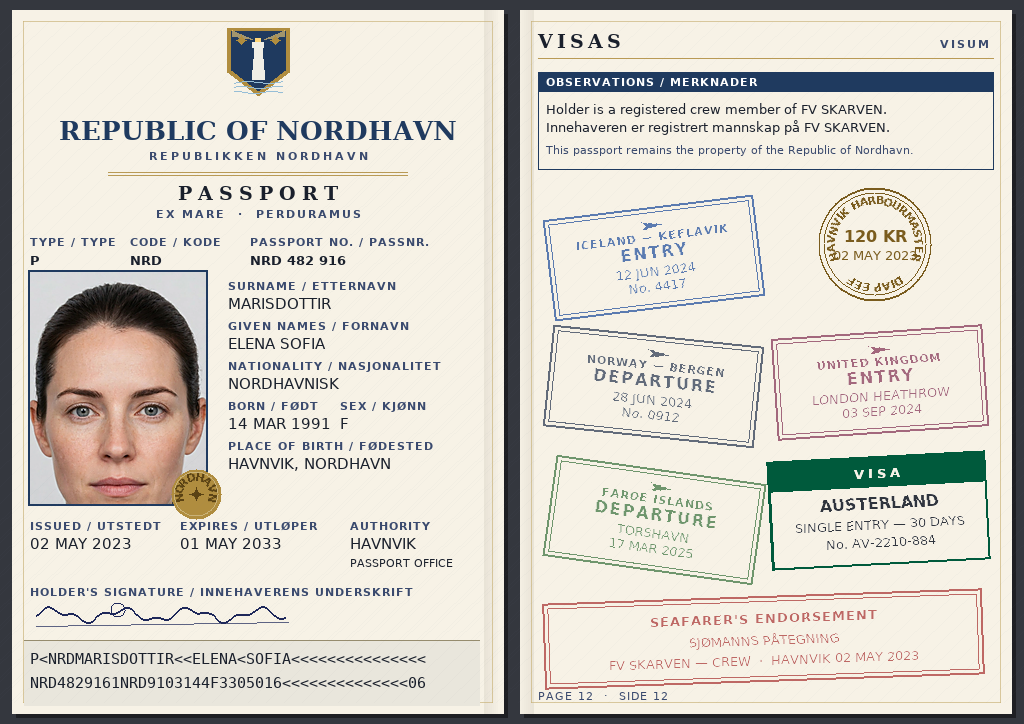
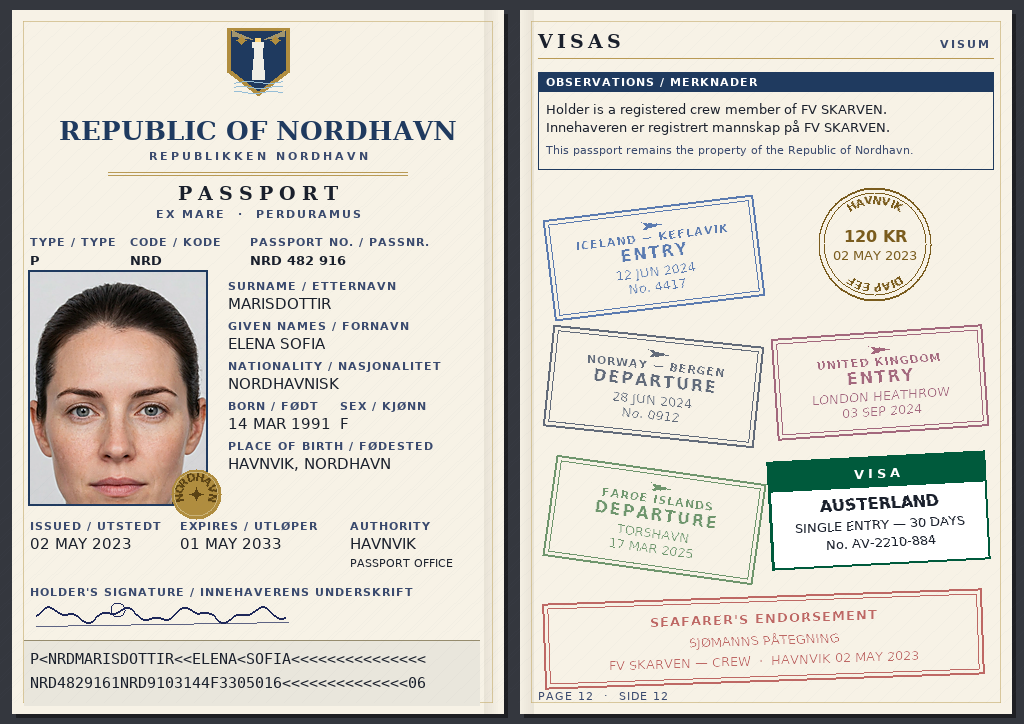
Fix fee-stamp arc collision and ghost VISA text; SPDX header; tidy repo
- Fee stamp: top arc 'HAVNVIK HARBOURMASTER' spanned 252 deg and struck
  through '02 MAY 2023'; shortened to 'HAVNVIK' (83 deg)
- Visa sticker: white VISA text was lost by the dark-only stamp blit
  (only edge pixels survived); paste the solid sticker opaquely instead
- MRZ check digits independently re-verified valid (all 5 match); no change
- LICENSE already carries SPDX-License-Identifier: MIT; added SPDX line
  to main.py as well
- Repo hygiene: review crops + media receipt moved out, portrait source
  kept as tools/portrait-source.webp, tools/build_assets.py committed

Changed region(s): [[0.75, 0.6381, 0.9688, 0.7901], [0.8125, 0.2735, 0.9062, 0.3646]]

diff --git a/tools/build_assets.py b/tools/build_assets.py
@@ -1,0 +1,103 @@
+#!/usr/bin/env python3
+"""Build-time asset generator for the Nordhavn passport entry.
+
+Renders DejaVu glyph bitmaps and the portrait into compact binary blobs
+(font.bin, portrait.bin) that main.py (stdlib only, no PIL in the sandbox)
+can decode with zlib + struct.
+
+Run once here on the dev VM; the .bin files ship in the repo.
+"""
+import struct
+import zlib
+from pathlib import Path
+
+from PIL import Image, ImageDraw, ImageFont, ImageFilter
+
+WORK = Path(__file__).resolve().parent
+DJV = "/usr/share/fonts/truetype/dejavu"
+
+# (font key, ttf path, pixel size)
+FONTS = [
+    ("serif_bold_34", f"{DJV}/DejaVuSerif-Bold.ttf", 34),
+    ("serif_bold_26", f"{DJV}/DejaVuSerif-Bold.ttf", 26),
+    ("serif_bold_19", f"{DJV}/DejaVuSerif-Bold.ttf", 19),
+    ("sans_bold_16", f"{DJV}/DejaVuSans-Bold.ttf", 16),
+    ("sans_bold_13", f"{DJV}/DejaVuSans-Bold.ttf", 13),
+    ("sans_bold_11", f"{DJV}/DejaVuSans-Bold.ttf", 11),
+    ("sans_15", f"{DJV}/DejaVuSans.ttf", 15),
+    ("sans_13", f"{DJV}/DejaVuSans.ttf", 13),
+    ("sans_11", f"{DJV}/DejaVuSans.ttf", 11),
+    ("mono_15", f"{DJV}/DejaVuSansMono.ttf", 15),
+    ("mono_13", f"{DJV}/DejaVuSansMono.ttf", 13),
+]
+
+# ASCII printable + the Nordic letters and punctuation the page uses.
+CODEPOINTS = list(range(32, 127)) + [183, 198, 230, 216, 248, 197, 229, 201, 233, 8212, 8226]
+
+
+def build_font_blob() -> bytes:
+    out = bytearray()
+    out += b"NFNT1"
+    out += struct.pack(">H", len(FONTS))
+    for key, path, size in FONTS:
+        font = ImageFont.truetype(path, size)
+        ascent, _descent = font.getmetrics()  # baseline sits `ascent` below the ascender top
+        kb = key.encode()
+        out += struct.pack(">H", len(kb)) + kb
+        out += struct.pack(">H", size)
+        glyphs = []
+        for cp in CODEPOINTS:
+            ch = chr(cp)
+            # measure
+            bbox = font.getbbox(ch)
+            if bbox is None:
+                continue
+            left, top, right, bottom = bbox
+            w, h = right - left, bottom - top
+            if w <= 0 or h <= 0:
+                # space etc: zero bitmap, keep advance
+                adv = font.getlength(ch)
+                glyphs.append((cp, int(round(adv)), 0, 0, 0, 0, b""))
+                continue
+            img = Image.new("L", (w + 2, h + 2), 0)
+            d = ImageDraw.Draw(img)
+            d.text((1 - left, 1 - top), ch, font=font, fill=255)
+            px = img.tobytes()
+            adv = font.getlength(ch)
+            # bitmap row 0 sits `1 - top + ascent` px above the baseline:
+            # the draw offset puts the bbox top at row 1, and the baseline
+            # is `ascent` below the ascender line.
+            glyphs.append((cp, int(round(adv)), w + 2, h + 2, left - 1,
+                           top - 1 - ascent, px))
+        out += struct.pack(">H", len(glyphs))
+        for cp, adv, w, h, bx, by, px in glyphs:
+            out += struct.pack(">IBBBbb", cp, adv, w, h, bx, by)
+            out += px
+    return zlib.compress(bytes(out), 9)
+
+
+def build_portrait() -> bytes:
+    src = Image.open(WORK / "portrait-source.webp").convert("RGB")
+    W, H = src.size
+    # Passport crop: head centred, shoulders at the bottom. Face centre ~ (0.50W, 0.36H).
+    cw = int(W * 0.60)
+    ch = int(cw * 232 / 176)
+    cx, cy = W // 2, int(H * 0.335)
+    x0 = max(0, cx - cw // 2)
+    y0 = max(0, cy - ch // 2)
+    y0 = min(y0, H - ch)
+    x0 = min(x0, W - cw)
+    crop = src.crop((x0, y0, x0 + cw, y0 + ch)).resize((176, 232), Image.LANCZOS)
+    crop = crop.filter(ImageFilter.UnsharpMask(radius=1.2, percent=60, threshold=2))
+    raw = crop.tobytes()  # 176*232*3 RGB
+    blob = struct.pack(">HH", 176, 232) + raw
+    return zlib.compress(blob, 9)
+
+
+if __name__ == "__main__":
+    fb = build_font_blob()
+    (WORK.parent / "font.bin").write_bytes(fb)
+    print("font.bin:", len(fb), "bytes")
+    pb = build_portrait()
+    (WORK.parent / "portrait.bin").write_bytes(pb)
+    print("portrait.bin:", len(pb), "bytes")

diff --git a/main.py b/main.py
@@ -1,4 +1,5 @@
 #!/usr/bin/env python3
+# SPDX-License-Identifier: MIT
 """Passport of the Republic of Nordhavn -- a country that isn't there.
 
 Generates one open passport spread (data page + visa page) and writes it to
@@ -488,8 +489,11 @@ def draw_fee_stamp(cv, cx, cy, r):
     ink = (122, 92, 30)
     cv.circle(cx, cy, r, ink, fill=False, t=2)
     cv.circle(cx, cy, r - 5, ink, fill=False, t=1)
+    # NOTE: the top arc must stay short. "HAVNVIK HARBOURMASTER" is 194 px
+    # wide, a 252-degree span at this radius: it wrapped around the sides
+    # and struck through "02 MAY 2023". "HAVNVIK" spans ~83 degrees.
     circular_text(cv, FONTS["sans_bold_11"], cx, cy, r - 12,
-                  "HAVNVIK HARBOURMASTER", ink, start_deg=270)
+                  "HAVNVIK", ink, start_deg=270)
     circular_text(cv, FONTS["sans_bold_11"], cx, cy, r - 12,
                   "FEE PAID", ink, start_deg=90, direction=-1)
     cv.text_centered(FONTS["sans_bold_16"], cx, cy - 2, "120 KR", ink)
@@ -505,7 +509,12 @@ def draw_visa_sticker(cv, x, y, w, h, angle):
     st.text_centered(FONTS["sans_bold_16"], w // 2, 52, "AUSTERLAND", INK)
     st.text_centered(FONTS["sans_13"], w // 2, 72, "SINGLE ENTRY — 30 DAYS", INK)
     st.text_centered(FONTS["sans_13"], w // 2, 90, "No. AV-2210-884", INK)
-    blit_stamp(cv, st, x, y, angle, alpha=255)
+    # NOTE: do NOT use blit_stamp here. It transfers only dark pixels, so
+    # the white VISA text on the green header came out as a faint ghost
+    # outline (only anti-aliased edges survived). A visa sticker is a solid
+    # printed label, so paste the whole rotated sticker opaquely.
+    rc = st.rotated(angle)
+    cv.blit_canvas(rc, x, y)
 
 
 # -------------------------------------------------------------- pages ------
